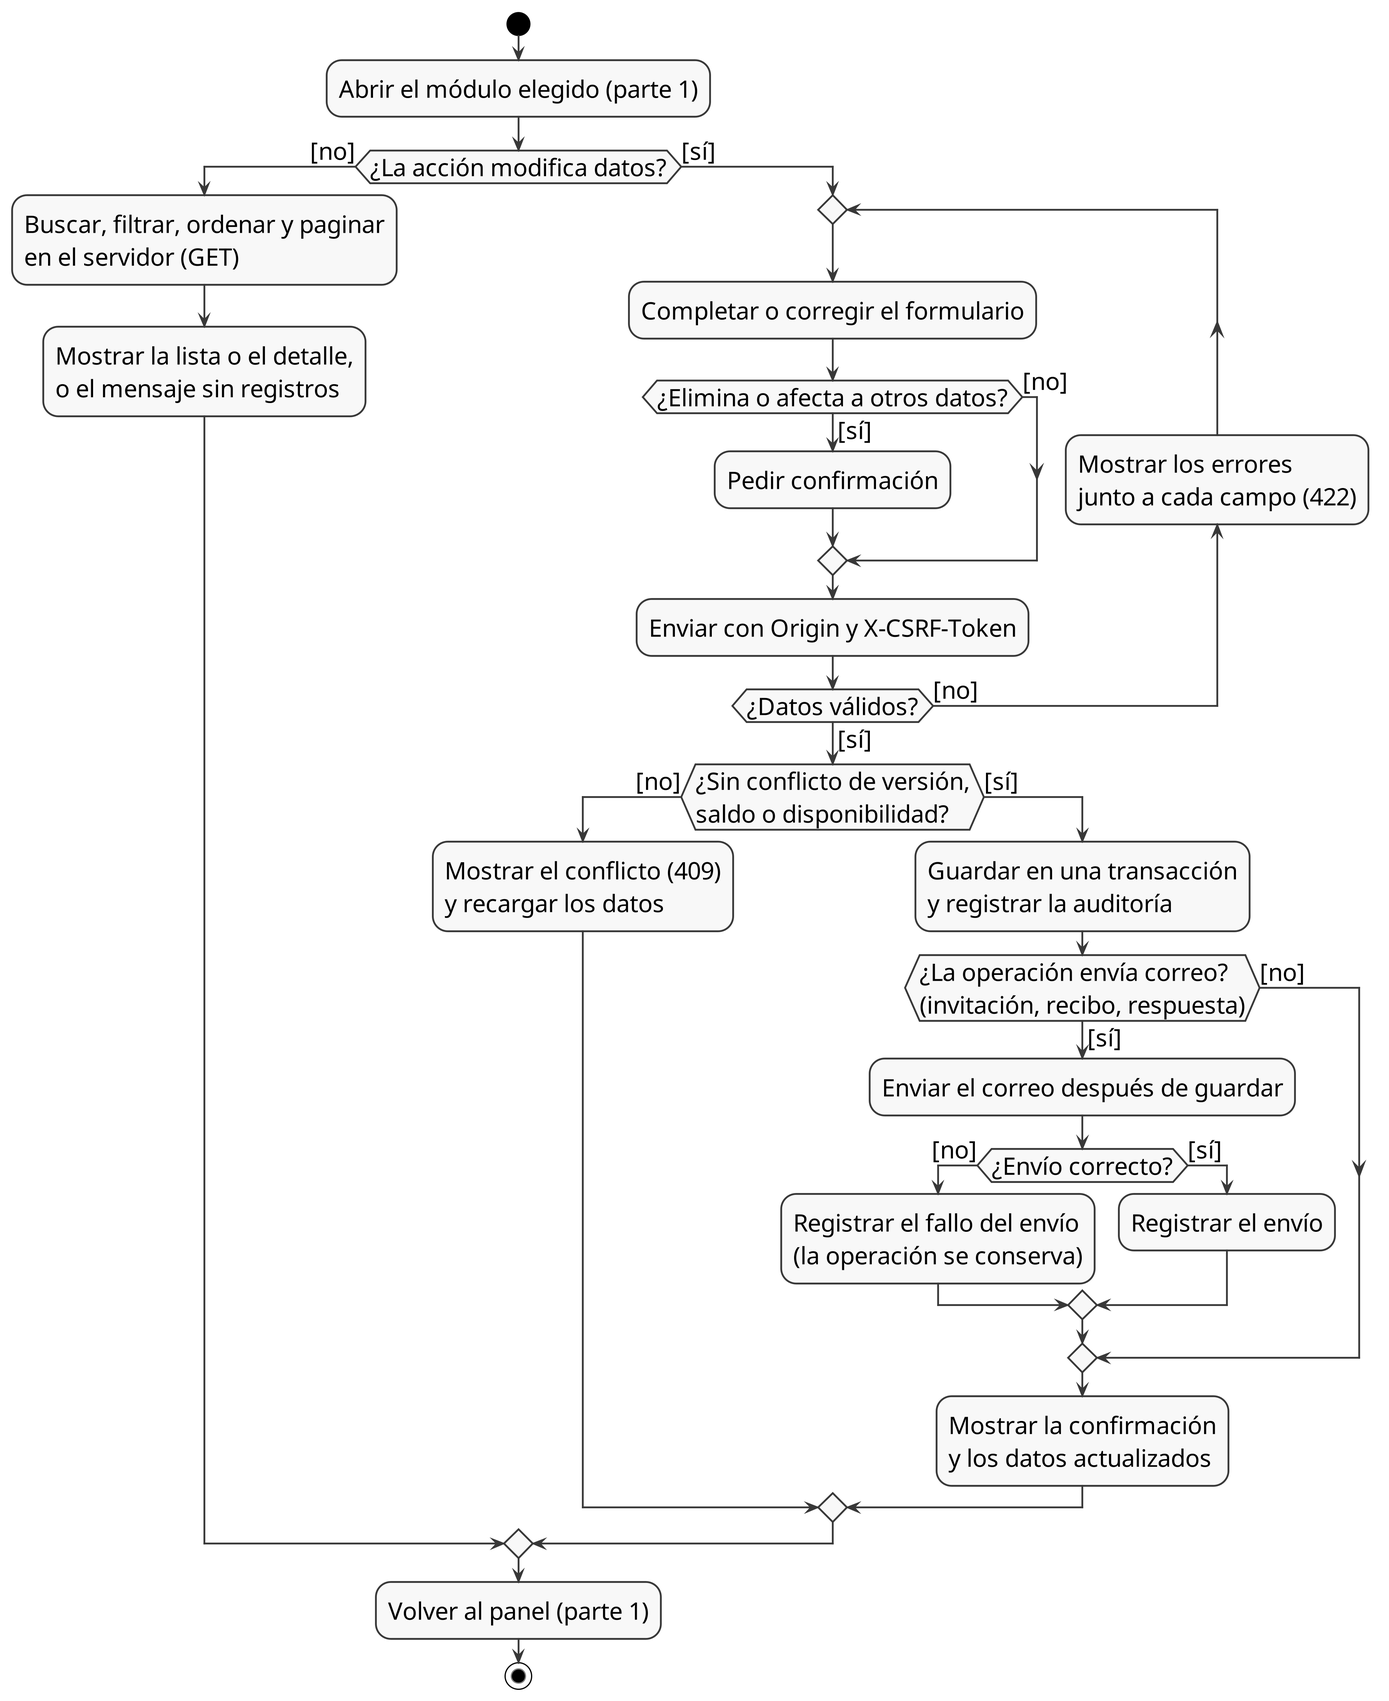
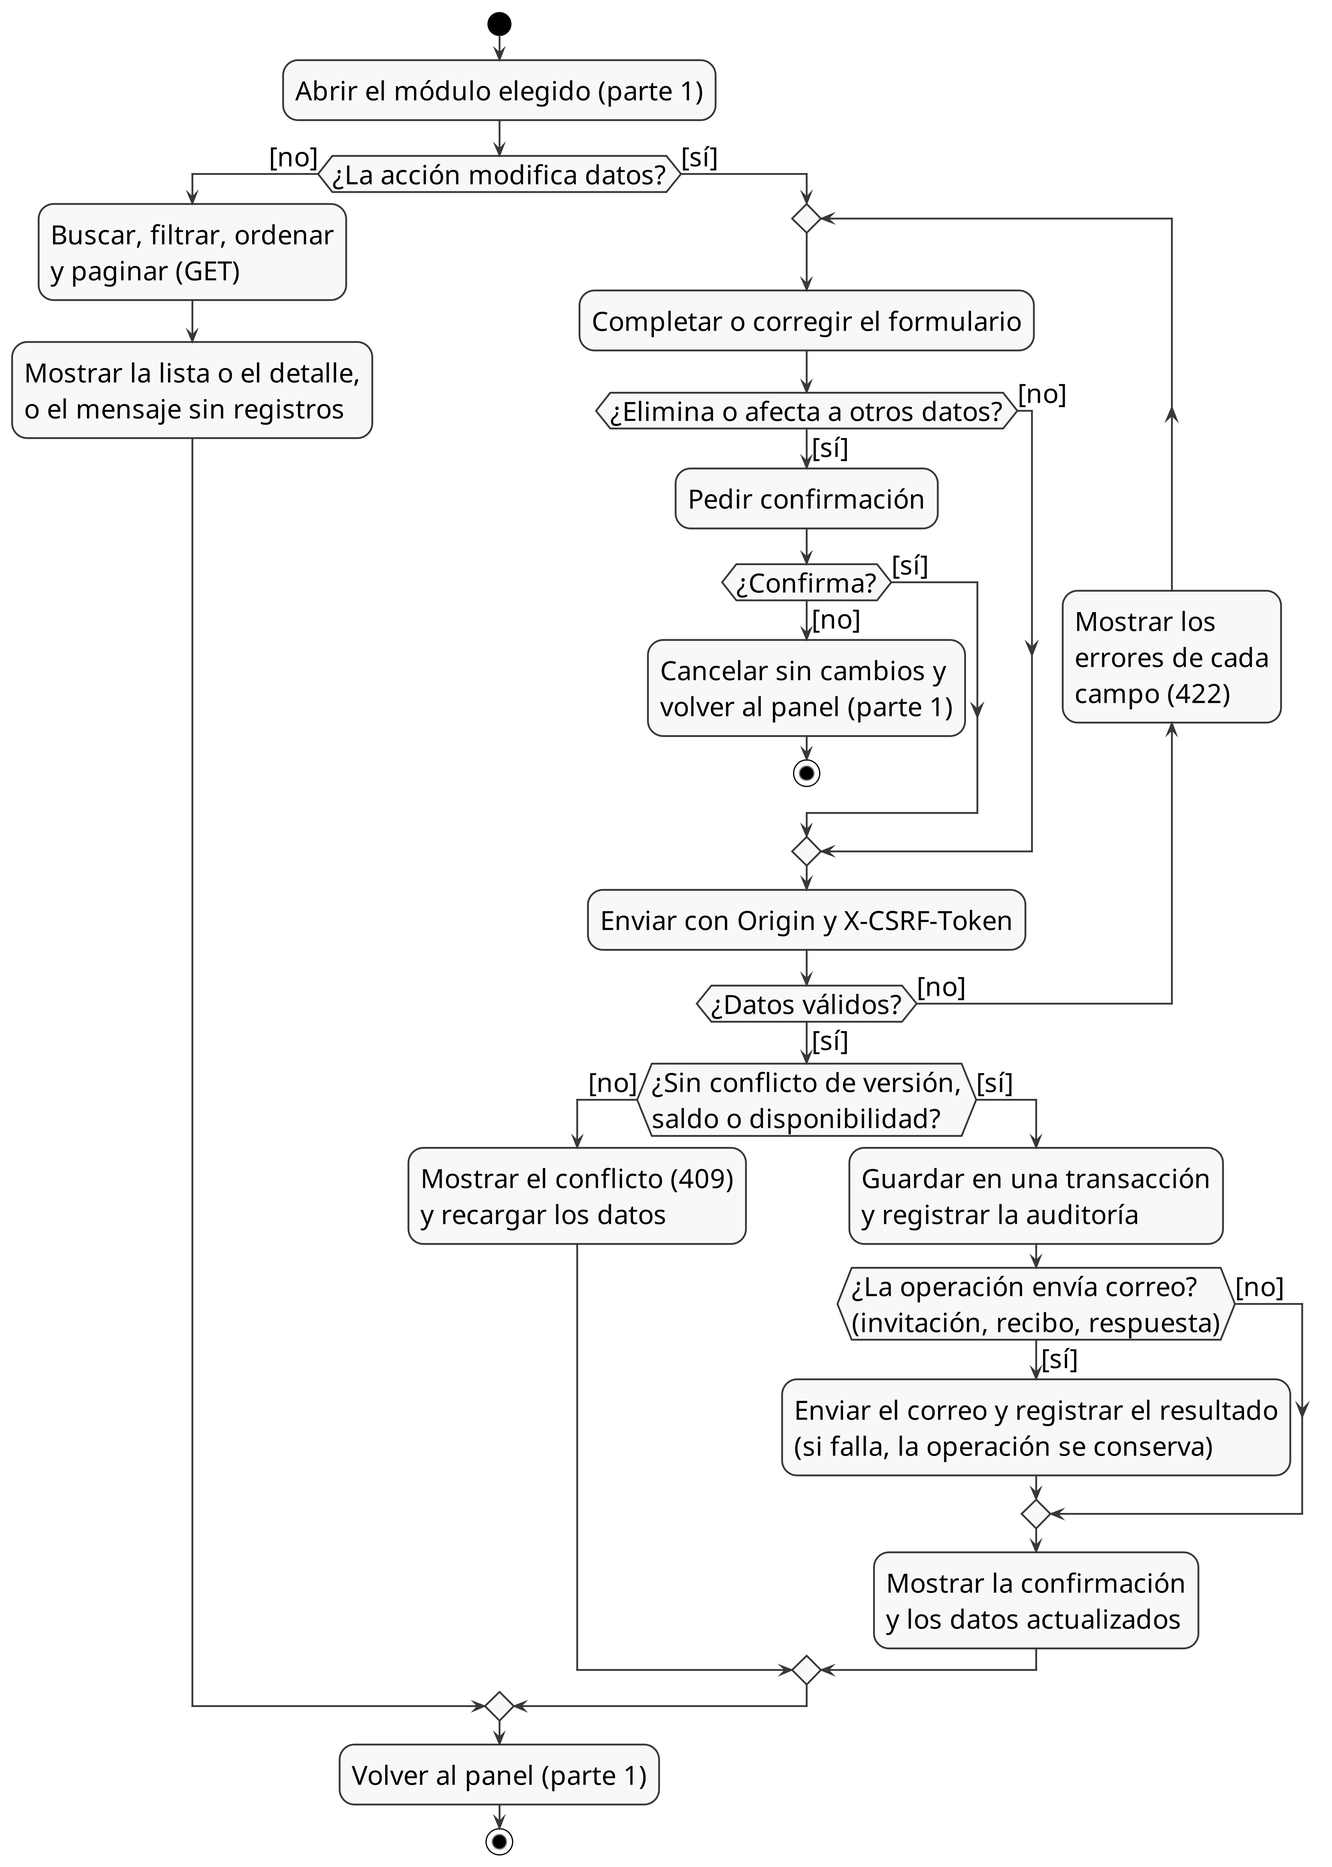
docs(diagrams): separate payments relations, unify late-fee box, add confirmation
- Fig 13 part 1: units repeated in grey over charges and payments, so the
  four relations reaching payments from above no longer touch (0 crossings).
- Late-fee box named «charges: origen de la mora» with label
  «source_charge_id» in every figure.
- Admin activities part 2: «¿Confirma?» decision after «Pedir confirmación»,
  [no] cancels without changes and returns to the panel.
- Resident activities part 1: «documento, teléfono (opcional) y contraseña».

diff --git a/docs/entrega-objetivos/scripts/generar_areas.py b/docs/entrega-objetivos/scripts/generar_areas.py
@@ -4,14 +4,16 @@ Cada diagrama muestra sus tablas con todas las columnas y sus tipos, copiadas ta
 completo (leído de information_schema). Cada relación se dibuja en el diagrama de la tabla que tiene
 la clave foránea; si la tabla referenciada es de otra parte o de otra figura, se repite en gris, solo
 con su clave primaria, como referencia. Así, las 24 relaciones del modelo se dibujan una vez cada una.
-La mora (charges.source_charge_id) va hacia un recuadro gris «charges (la misma tabla)»: PlantUML
-1.2020 dibuja la relación de una tabla consigo misma como un bucle con las marcas superpuestas.
+La mora (charges.source_charge_id) va hacia un recuadro gris «charges: origen de la mora», con la
+etiqueta «source_charge_id», igual que en el Anexo B: PlantUML 1.2020 dibuja la relación de una tabla
+consigo misma como un bucle con las marcas superpuestas.
 Dos datos se calculan del modelo: las columnas de otras partes o figuras que apuntan a las tablas
 del diagrama («Referencias») y las columnas generadas que el modelo omite. Van en la leyenda o en
 notas sueltas, según lo que dé mayor letra en cada figura (clave «notes» de FIGURES).
 
 Cada figura se lee a 8 pt o más en una hoja carta (comprobado con verificar_diagramas.py); la
-disposición de cada una (orientación, letra en px de PlantUML, nodesep y ranksep) se fija en FIGURES.
+disposición de cada una (orientación, letra en px de PlantUML, nodesep y ranksep) se fija en FIGURES;
+con «split», una tabla gris se repite sobre cada tabla que la referencia (para evitar cruces).
 
 Uso, desde la raíz del repositorio:
     python3 -I docs/entrega-objetivos/scripts/generar_areas.py docs/entrega-objetivos/modelo-datos
@@ -44,8 +46,11 @@ FIGURES = {
     "modelo-datos-finanzas-comunicacion-parte1": {
         "title": "Modelo lógico de datos: finanzas y comunicación (1 de 2): obligaciones y pagos",
         "tables": ["charges", "payments"],
-        "layout": ("tb", 16, 12, 15),
+        "layout": ("tb", 16, 12, 45),
         "notes": "leyenda",
+        # units is repeated (one grey box over charges, another over payments): with a single box the
+        # relations to payments met at one corner, with overlapping marks, and one of them crossed.
+        "split": ["units"],
     },
     "modelo-datos-finanzas-comunicacion-parte2": {
         "title": "Modelo lógico de datos: finanzas y comunicación (2 de 2): aplicaciones, pagos de demostración y comunicación",
@@ -76,6 +81,7 @@ skinparam nodesep {nodesep}
 skinparam ranksep {ranksep}
 ' Título (no se dibuja; lo pone el pie de figura del informe): {title}
 """
+NBSP = "\u00a0"
 LEGEND = [
     "MySQL 8 (InnoDB) · esquema Alembic d33ea6140186 (head)",
     "* = NOT NULL · <<PK>> clave primaria · <<FK>> clave foránea · <<UK>> única",
@@ -118,14 +124,22 @@ for name, figure in FIGURES.items():
                          direction="left to right direction" if direction == "lr" else "top to bottom direction")]
     for t in own:
         out.append(f'entity "{t}" as {t} {{\n{entities[t]}\n}}\n')
+    split = figure.get("split", [])
     for t in stubs:
-        out.append(f'entity "{t}" as {t} #DDDDDD {{\n  *id : bigint <<PK>>\n}}\n')
+        children = sorted({b for _, a, b, _ in used if a == t}) if t in split else [None]
+        for child in children:
+            alias = f"{t}_{child}" if child else t
+            out.append(f'entity "{t}" as {alias} #DDDDDD {{\n  *id : bigint <<PK>>\n}}\n')
     for line, a, b, label in used:
         if a == b:  # the late fee and its origin, drawn towards a grey box of the same table
-            out.append(f'entity "{a} (la misma tabla)" as {a}_origen #DDDDDD {{\n  *id : bigint <<PK>>\n}}\n')
-            # Same row (one dash), so the grey box sits beside the table instead of below it.
-            same_row = line.replace("--", "-", 1).replace(f" {b} :", f" {b}_origen :", 1)
-            out.append(same_row.replace(" (", "\\n(") + "\n")
+            # The same name and label as in Annex B (dividir_modelo_datos.py). Same row (one dash), so the
+            # grey box sits beside the table; the label is the column alone, with three no-break spaces
+            # on each side to keep it clear of the border of the table.
+            out.append(f'entity "{a}: origen\\nde la mora" as {a}_origen #DDDDDD {{\n  *id : bigint <<PK>>\n}}\n')
+            left, right = re.match(r"^\w+ (\S+?)--(\S+) ", line).groups()
+            out.append(f'{a} {left}-{right} {a}_origen : "{NBSP * 3}{label.split(" (")[0]}{NBSP * 3}"\n')
+        elif a in split:
+            out.append(line.replace(f"{a} ", f"{a}_{b} ", 1) + "\n")
         else:
             out.append(line + "\n")
     drawn += [r[0] for r in used]
@@ -133,6 +147,8 @@ for name, figure in FIGURES.items():
     # «notas», into free notes: whichever gives the larger print size for that figure.
     legend = LEGEND if stubs or any(a == b for _, a, b, _ in used) else LEGEND[:3]
     legend = list(legend)
+    for t in split:
+        legend.append(f"{t} se repite en gris sobre cada tabla que la referencia, para que sus relaciones no se crucen.")
     incoming = sorted(f"{b}.{label.split(' ')[0]} → {a}" for _, a, b, label in relations
                       if a in own and b not in own and a != b)
     gen = [f"{t}.{c}" for t, c in generated if t in own]

diff --git a/docs/entrega-objetivos/README.md b/docs/entrega-objetivos/README.md
@@ -11,13 +11,13 @@ Artefactos generados a partir del código de la rama `main`. Ninguno modifica la
 | [casos-uso/cu-03-pagos-estado-financiero.puml](casos-uso/cu-03-pagos-estado-financiero.puml) | Figura 4 | Casos de uso: gestión de pagos y estado financiero (CU-004, 008, 010, 011, 012, 014) |
 | [casos-uso/cu-04-feedback.puml](casos-uso/cu-04-feedback.puml) | Figura 5 | Casos de uso: gestión de feedback (CU-005, 009) |
 | [casos-uso/cu-05-notificaciones.puml](casos-uso/cu-05-notificaciones.puml) | Figura 6 | Casos de uso: notificaciones (CU-017 y los casos que la incluyen o extienden) |
-| [actividades/actividades-administrador-parte1.puml](actividades/actividades-administrador-parte1.puml) y [parte2](actividades/actividades-administrador-parte2.puml) | Figura 7 (DA-01), en dos partes | Actividades del administrador: 1) acceso y navegación por el panel; 2) operación en un módulo, con sus validaciones y su resultado |
+| [actividades/actividades-administrador-parte1.puml](actividades/actividades-administrador-parte1.puml) y [parte2](actividades/actividades-administrador-parte2.puml) | Figura 7 (DA-01), en dos partes | Actividades del administrador: 1) acceso y navegación por el panel; 2) operación en un módulo, con sus validaciones (incluida la confirmación «¿Confirma?», cuyo [no] cancela sin cambios) y su resultado |
 | [actividades/actividades-residente-parte1.puml](actividades/actividades-residente-parte1.puml) y [parte2](actividades/actividades-residente-parte2.puml) | Figura 8 (DA-02), en dos partes | Actividades del residente: 1) activación, acceso y navegación; 2) pago de demostración, feedback y consultas |
 | [arquitectura/componentes-resumen.puml](arquitectura/componentes-resumen.puml) | Figura 9 | Diagrama de componentes resumido: capas Presentación, API, Lógica de negocio y Persistencia (los nombres de la Tabla 59), de arriba abajo, y Transversales a un lado; nombres y etiquetas cortos |
 | [arquitectura/despliegue.puml](arquitectura/despliegue.puml) | Figura 10 | Diagrama de despliegue UML: un nodo «device» (el equipo de desarrollo) con seis «executionEnvironment», cada uno con su nombre y su puerto; protocolo y puerto en cada relación (los detalles, en la sección 9.1 del informe). Navegador arriba; Astro y FastAPI en el medio; MySQL y Mailpit abajo; las pruebas a un lado, a la izquierda de MySQL. Sin cruces y sin etiquetas atravesadas |
 | [modelo-datos/modelo-datos-usuarios-seguridad.puml](modelo-datos/modelo-datos-usuarios-seguridad.puml) | Figura 11 | Modelo lógico, área de usuarios y seguridad: `users`, `sessions`, `login_throttles`, `password_reset_tokens` y `audit_logs`, con todas las columnas y sus tipos |
 | [modelo-datos/modelo-datos-estructura-invitaciones-parte1.puml](modelo-datos/modelo-datos-estructura-invitaciones-parte1.puml) y [parte2](modelo-datos/modelo-datos-estructura-invitaciones-parte2.puml) | Figura 12, en dos partes | Área de estructura residencial e invitaciones: 1) `blocks`, `towers` y `units`; 2) `resident_invitations` y `resident_units` (con `units` y `users` en gris). Todas las columnas y sus tipos |
-| [modelo-datos/modelo-datos-finanzas-comunicacion-parte1.puml](modelo-datos/modelo-datos-finanzas-comunicacion-parte1.puml) y [parte2](modelo-datos/modelo-datos-finanzas-comunicacion-parte2.puml) | Figura 13, en dos partes | Área de finanzas y comunicación: 1) `charges` y `payments` (con `units` y `users` en gris); 2) `payment_allocations`, `demo_payment_transactions`, `feedback` y `notifications` (con `charges`, `payments` y `users` en gris). Todas las columnas y sus tipos |
+| [modelo-datos/modelo-datos-finanzas-comunicacion-parte1.puml](modelo-datos/modelo-datos-finanzas-comunicacion-parte1.puml) y [parte2](modelo-datos/modelo-datos-finanzas-comunicacion-parte2.puml) | Figura 13, en dos partes | Área de finanzas y comunicación: 1) `charges` y `payments` (con `users` en gris y `units` en gris repetida sobre cada una, para que sus relaciones no se crucen); 2) `payment_allocations`, `demo_payment_transactions`, `feedback` y `notifications` (con `charges`, `payments` y `users` en gris). Todas las columnas y sus tipos |
 | [arquitectura/componentes-parte1.puml](arquitectura/componentes-parte1.puml) y [parte2](arquitectura/componentes-parte2.puml) | Figura B.1 (Anexo B), ahora en dos partes | Componentes detallados: 1) capa de presentación; 2) API, lógica de negocio, persistencia y transversales. Textos abreviados para leerse a ≥ 9 pt en una hoja horizontal |
 | [modelo-datos/modelo-datos-completo-parte1.puml](modelo-datos/modelo-datos-completo-parte1.puml) y [parte2](modelo-datos/modelo-datos-completo-parte2.puml) | Figuras B.2 y B.3 (Anexo B) | Las 16 tablas y las 24 relaciones en dos partes, solo con las columnas clave (PK, FK, UK), legibles a ≥ 9 pt en una hoja horizontal |
 | [arquitectura/componentes.puml](arquitectura/componentes.puml) | Referencia (antes, Figura B.1) | Componentes detallados en una sola imagen, con todos los módulos; no se lee en una página |
@@ -39,7 +39,7 @@ Artefactos generados a partir del código de la rama `main`. Ninguno modifica la
 
 - **Casos de uso (Figuras 2 a 6).** Nombres y actores de las fichas oficiales (`docs/casos-uso/`); los mismos cinco módulos que los diagramas D01 a D05 del documento académico. Los `<<include>>` de CU-002 y CU-007 hacia CU-018 vienen de D01; las demás relaciones se apoyan en la ficha y en el código, citado en el comentario de cada `.puml`: `<<extend>>` de CU-016 a CU-007, de CU-015 a CU-006, de CU-011 a CU-012 y de CU-017 a CU-010 (solo un pago de demostración aprobado notifica), e `<<include>>` de CU-004 y de CU-005 a CU-017 (todo pago manual y toda respuesta o resolución de un feedback notifican; HU-017, criterio 1).
 - **Actividades (Figuras 7 y 8).** Cada figura se divide en dos partes para leerse a 8 pt o más en una página vertical: la parte 1 termina en «operar en el módulo (parte 2)» y la parte 2 empieza ahí y vuelve a la parte 1. Flujos tomados de `frontend/src/middleware.ts`, `lib/auth/page-access.ts`, `lib/auth/roles.ts`, `lib/auth/login-form.ts` y las páginas de `/admin` y `/resident`, más los servicios del backend que deciden cada resultado (citados en el comentario de cada `.puml`). Cada decisión tiene sus guardas `[sí]` y `[no]`.
-- **Modelos de datos.** Se generaron leyendo `information_schema` de `softph_academico_test`, en la revisión de Alembic `d33ea6140186`, comprobada con `alembic check`. Columnas, tipos, nulos, claves y relaciones salen de la base, no se escribieron a mano; solo la agrupación por áreas es una decisión editorial. Las dos partes del Anexo B las genera `scripts/dividir_modelo_datos.py` a partir de `modelo-datos-completo.puml`: cada tabla muestra solo sus columnas clave, sin su tipo, y su encabezado indica cuántas columnas tiene (`users (11)`, sin las columnas generadas). Las 24 relaciones se copian con su cardinalidad (11 en la parte 1 y 13 en la parte 2). En la parte 2, `users` y `units` aparecen en gris, solo con su clave primaria. La mora (`charges.source_charge_id`) se dibuja hacia un recuadro gris de la misma tabla (en el Anexo B, «charges: origen de la mora»; en la Figura 13, «charges (la misma tabla)»): PlantUML 1.2020 dibuja la relación de una tabla consigo misma como un bucle diminuto con las marcas de cardinalidad superpuestas. En el Anexo B, su etiqueta es solo la columna, con un margen de espacios no separables, para que no toque el borde de `charges` ni las marcas de las relaciones que llegan a ella. Las Figuras 11 a 13 las genera `scripts/generar_areas.py` a partir del mismo `modelo-datos-completo.puml`, con todas las columnas y sus tipos: cada relación se dibuja en la figura de la tabla que tiene la clave foránea (las 24, una vez cada una), y la tabla referenciada, si es de otra parte o figura, se repite en gris solo con su clave primaria. Cada figura indica las columnas de otras partes o figuras que apuntan a sus tablas («Referencias») y las columnas generadas que el modelo omite.
+- **Modelos de datos.** Se generaron leyendo `information_schema` de `softph_academico_test`, en la revisión de Alembic `d33ea6140186`, comprobada con `alembic check`. Columnas, tipos, nulos, claves y relaciones salen de la base, no se escribieron a mano; solo la agrupación por áreas es una decisión editorial. Las dos partes del Anexo B las genera `scripts/dividir_modelo_datos.py` a partir de `modelo-datos-completo.puml`: cada tabla muestra solo sus columnas clave, sin su tipo, y su encabezado indica cuántas columnas tiene (`users (11)`, sin las columnas generadas). Las 24 relaciones se copian con su cardinalidad (11 en la parte 1 y 13 en la parte 2). En la parte 2, `users` y `units` aparecen en gris, solo con su clave primaria. La mora (`charges.source_charge_id`) se dibuja hacia un recuadro gris de la misma tabla (el mismo en el Anexo B y en la Figura 13: «charges: origen de la mora», con la etiqueta «source_charge_id»): PlantUML 1.2020 dibuja la relación de una tabla consigo misma como un bucle diminuto con las marcas de cardinalidad superpuestas. Su etiqueta es solo la columna, con un margen de espacios no separables, para que no toque el borde de `charges` ni las marcas de las relaciones que llegan a ella. Las Figuras 11 a 13 las genera `scripts/generar_areas.py` a partir del mismo `modelo-datos-completo.puml`, con todas las columnas y sus tipos: cada relación se dibuja en la figura de la tabla que tiene la clave foránea (las 24, una vez cada una), y la tabla referenciada, si es de otra parte o figura, se repite en gris solo con su clave primaria. Cada figura indica las columnas de otras partes o figuras que apuntan a sus tablas («Referencias») y las columnas generadas que el modelo omite.
 
 ## Generar los PNG y los SVG
 
@@ -72,15 +72,15 @@ python3 -I scripts/verificar_diagramas.py */*.svg                  # letra, cruc
 | `cu-04-feedback` | 5 | 1115 × 729 | **22,8 pt** | 17,1 pt | 0 | 0 | 0 |
 | `cu-05-notificaciones` | 6 | 2025 × 803 | **13,0 pt** | 9,4 pt | 0 | 0 | 0 |
 | `actividades-administrador-parte1` | 7 (1/2) | 2165 × 4472 | 5,7 pt | **8,3 pt** | 0 | 0 | 0 |
-| `actividades-administrador-parte2` | 7 (2/2) | 3612 × 4423 | 5,8 pt | **8,1 pt** | 0 | 0 | 0 |
-| `actividades-residente-parte1` | 8 (1/2) | 3226 × 5291 | 5,8 pt | **8,4 pt** | 0 | 0 | 0 |
+| `actividades-administrador-parte2` | 7 (2/2) | 3465 × 4856 | 5,8 pt | **8,4 pt** | 0 | 0 | 0 |
+| `actividades-residente-parte1` | 8 (1/2) | 3234 × 5291 | 5,8 pt | **8,4 pt** | 0 | 0 | 0 |
 | `actividades-residente-parte2` | 8 (2/2) | 3978 × 3726 | 8,3 pt | **8,9 pt** | 0 | 0 | 0 |
 | `componentes-resumen` | 9 | 1943 × 3418 | 6,0 pt | **8,7 pt** | 0 | 0 | 0 |
 | `despliegue` | 10 | 2284 × 1859 | **9,7 pt** | 9,0 pt | 0 | 0 | 0 |
 | `modelo-datos-usuarios-seguridad` | 11 | 3973 × 2063 | **8,2 pt** | 5,9 pt | 0 | 0 | 0 |
 | `modelo-datos-estructura-invitaciones-parte1` | 12 (1/2) | 2540 × 1245 | **12,8 pt** | 9,2 pt | 0 | 0 | 0 |
 | `modelo-datos-estructura-invitaciones-parte2` | 12 (2/2) | 2943 × 1946 | **10,6 pt** | 8,0 pt | 0 | 0 | 0 |
-| `modelo-datos-finanzas-comunicacion-parte1` | 13 (1/2) | 3581 × 2311 | **8,9 pt** | 6,6 pt | 1 | 0 | 0 |
+| `modelo-datos-finanzas-comunicacion-parte1` | 13 (1/2) | 3581 × 2472 | **8,3 pt** | 6,6 pt | 0 | 0 | 0 |
 | `modelo-datos-finanzas-comunicacion-parte2` | 13 (2/2) | 2540 × 1410 | **9,6 pt** | 6,9 pt | 0 | 0 | 0 |
 | `componentes-parte1` | B.1 (1/2) | 1984 × 1649 | **9,3 pt** | 8,9 pt | 0 | 0 | 0 |
 | `componentes-parte2` | B.1 (2/2) | 2540 × 1609 | **9,6 pt** | 6,9 pt | 0 | 0 | 0 |
@@ -92,7 +92,7 @@ python3 -I scripts/verificar_diagramas.py */*.svg                  # letra, cruc
 En negrita, la orientación prevista para cada figura; en los casos de uso, que caben a 8 pt o más en las dos, la que da mayor letra. Los dos diagramas de referencia no son figuras del informe y no se ajustaron.
 
 - **Letra mínima:** tamaño real de la letra más pequeña del diagrama al ajustarlo al área útil de una página carta con márgenes de 2,5 cm (horizontal: 22,9 × 14,5 cm; vertical: 16,6 × 20,9 cm, descontando el título y la fuente de la figura). La versión anterior de esta tabla tomaba el tamaño de letra de PlantUML como si fueran puntos; PlantUML mide en píxeles a 96 ppp (12 px = 9 pt), así que aquellas cifras eran un tercio más altas que la letra impresa.
-- **El cruce de la Figura B.3 y de la parte 1 de la Figura 13** es inevitable: `users` y `units` se relacionan las dos con `charges` y con `payments`. Ese par de tablas, en la misma fila, siempre produce un cruce; evitarlo exigiría repetir una tabla en el dibujo.
+- **El cruce de la Figura B.3** es inevitable: `users` y `units` se relacionan las dos con `charges` y con `payments`. Ese par de tablas, en la misma fila, siempre produce un cruce; evitarlo exige repetir una tabla en el dibujo, que es lo que se hizo en la parte 1 de la Figura 13 (`units` en gris sobre `charges` y sobre `payments`), donde además las cuatro relaciones que llegan a `payments` desde arriba quedan separadas.
 - **Tamaño de letra de PlantUML:** varía entre diagramas (de 12 a 24 px) porque la separación entre filas de PlantUML es fija: una letra mayor gana espacio frente a esa separación. Lo que importa es la letra impresa, que es la que mide la tabla.
 
 En PlantUML, `**` dentro de un texto se interpreta como negrita y desaparece de la imagen; por eso las rutas se escriben como `/admin/…` y no `/admin/**`.
